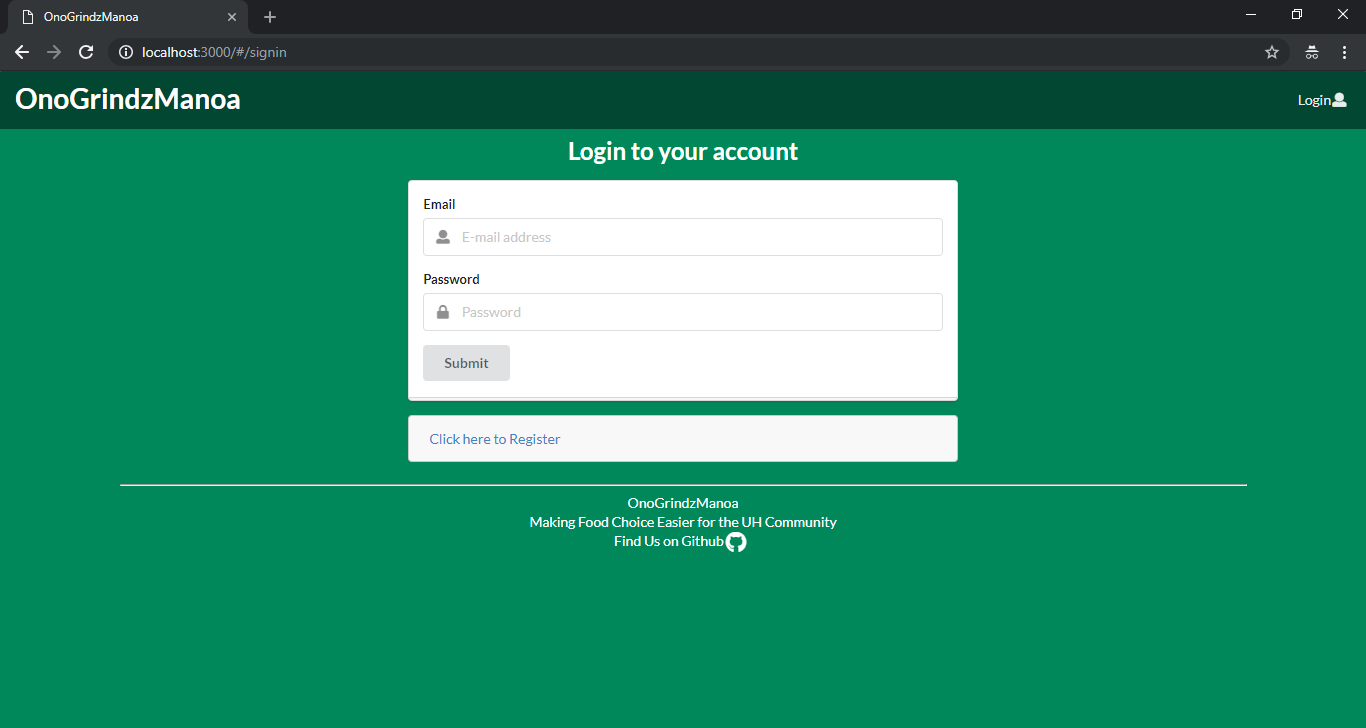
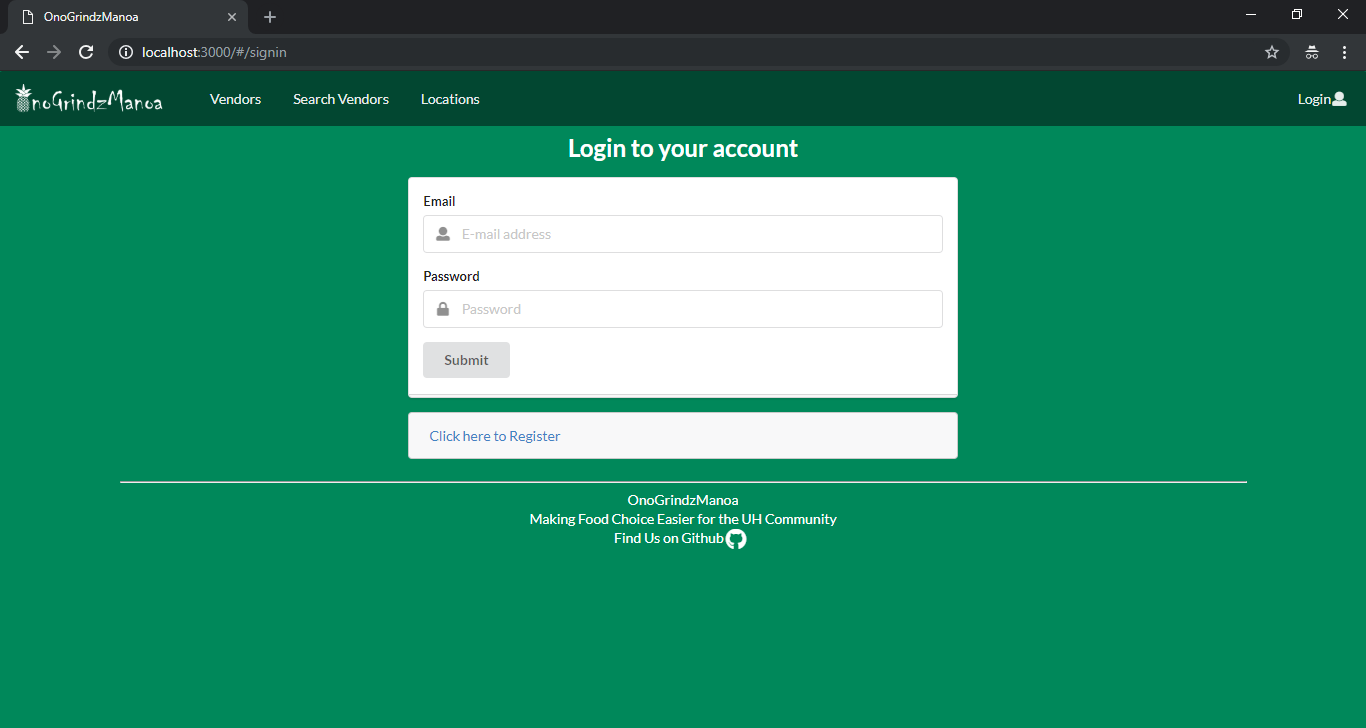
Updates to pictures and addition of location page description

Changed region(s): [[0.0, 0.1209, 1.0, 0.6346], [0.369, 0.6648, 0.6149, 0.7555]]

diff --git a/index.md b/index.md
@@ -6,6 +6,7 @@
   * [Milestone 1: Mockup development](#milestone-1-mockup-development)
   * [Milestone 2: User functionality](#milestone-2-user-functionality)
   * [Milestone 3: Final product](#milestone-3-final-product)
+* [Contact](#contact-us)
 
 # About OnoGrindzManoa 
 
@@ -42,6 +43,11 @@ If users do not have an account yet, they register and can then sign in to the a
 The user can then navigate to the list of vendors which enables them to view each vendor's information and has links to their menus. We are working to implement the ability for users to search the database of vendors to find ones which meet their preferences.
 <img src="doc/list-vendor-page.png">
 [Visit](http://onogrindzmanoa.meteorapp.com/#/list)
+
+## Vendor Locations
+Users can also navigate to the map of the University of Hawaii - Manoa campus which shows the vendor locations.
+<img src="doc/location-page.png">
+[Visit](http://onogrindzmanoa.meteorapp.com/#/maps)
 
 ## Add New Vendor
 Vendors can use this page to add/edit their information. This enables them to put their menu, location, and other information on the site.
@@ -91,9 +97,9 @@ The goal of Milestone 2 was to implement user functionality throughout the appli
 
 ## Milestone 3: Final Product
 
-This milestone started on November 27, 2018 and will end on December 6, 2018.
+This milestone started on November 27, 2018 and ended on December 6, 2018.
 
-The goal of Milestone 3 is to finalize the app by finishing the implementation of functionality for users and vendors.
+The goal of Milestone 3 was to finalize the app by finishing the implementation of functionality for users and vendors and adding mockups of future functionality.
 
 [See Milestone 3 on GitHub](https://github.com/onogrindzmanoa/onogrindzmanoa/projects/3)
 
